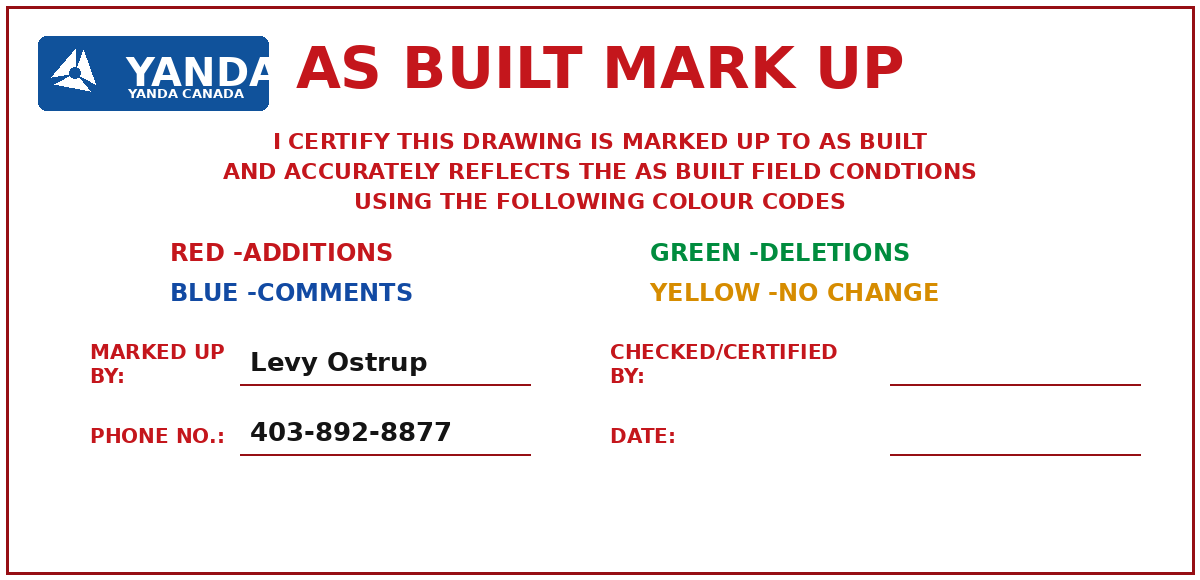
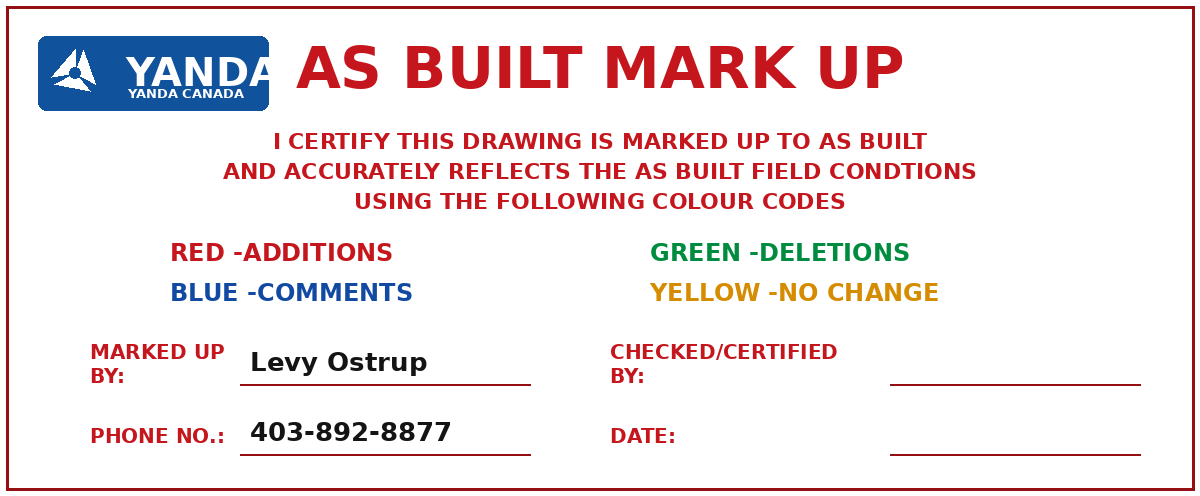
Tighten stamp image crop to match the reference exactly
The generated stamp had a large dead white gap between the bottom
fields and the red border, making it look stretched/taller than the
reference. Reduced the canvas height so the border hugs the content
(matching the reference's proportions) and added an auto-crop-to-border
safety pass in generate_stamp.py so future edits stay tight to the
border without ever clipping it.

Claude-Session: https://claude.ai/code/session_014dcWtV193w9CMuP1Nsx2xG

diff --git a/assets/generate_stamp.py b/assets/generate_stamp.py
@@ -14,10 +14,14 @@ of the box.
 
 Run:  python3 assets/generate_stamp.py
 """
-from PIL import Image, ImageDraw, ImageFont
+from PIL import Image, ImageDraw, ImageFont, ImageChops
 import os
 
-W, H = 1200, 580
+# H is sized to hug the bottom row of fields (no dead space below them,
+# before the border) - matching the reference stamp's proportions. A small
+# auto-crop safety pass in __main__ then trims any leftover white margin
+# outside the border while guaranteeing the border itself is never clipped.
+W, H = 1200, 496
 SCALE = 1  # supersampling handled by drawing at this resolution directly
 
 RED = (196, 22, 28, 255)
@@ -141,7 +145,23 @@ def build():
     return img
 
 
+def crop_to_border(img, pad=14):
+    """Trim any excess white canvas down to a small, even margin around
+    the red border, without ever clipping the border line itself."""
+    rgb = img.convert("RGB")
+    bg = Image.new("RGB", rgb.size, (255, 255, 255))
+    bbox = ImageChops.difference(rgb, bg).getbbox()
+    if bbox is None:
+        return img
+    x0, y0, x1, y1 = bbox
+    x0 = max(0, x0 - pad)
+    y0 = max(0, y0 - pad)
+    x1 = min(img.width, x1 + pad)
+    y1 = min(img.height, y1 + pad)
+    return img.crop((x0, y0, x1, y1))
+
+
 if __name__ == "__main__":
     out = os.path.join(os.path.dirname(__file__), "as_built_stamp.png")
-    build().save(out)
+    crop_to_border(build()).save(out)
     print("wrote", out)
